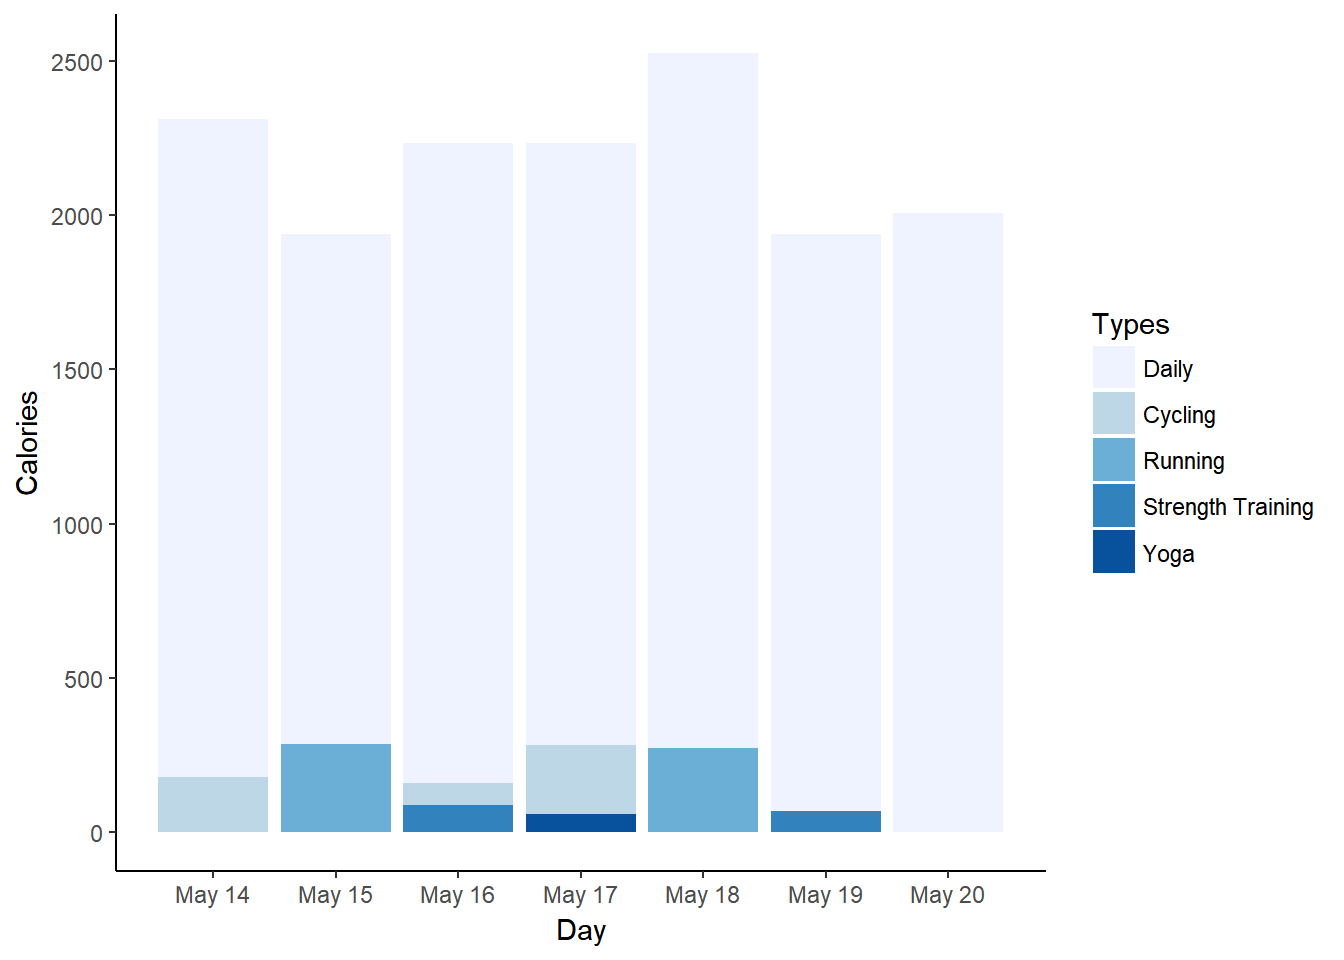
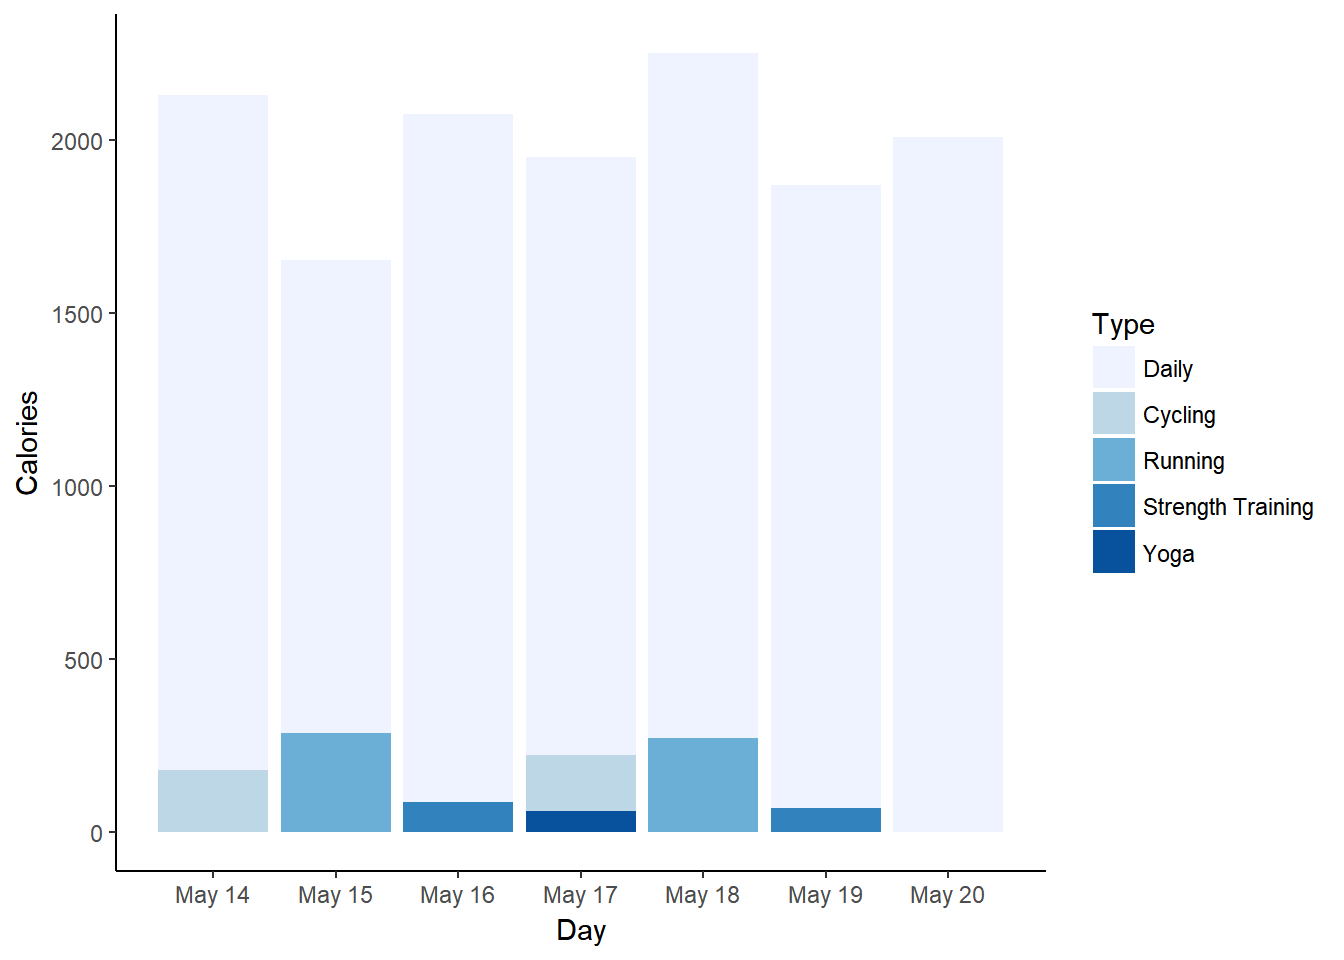
corrected calorie bar charts
using dcast to sum up calories per activity per day
to be able to plot with position="identity"

diff --git a/docs/README.html b/docs/README.html
@@ -191,6 +191,9 @@ $(document).ready(function () {
     <li>
       <a href="WeekOne.html">Week One</a>
     </li>
+    <li>
+      <a href="WeekTwo.html">Week Two</a>
+    </li>
   </ul>
 </li>
       </ul>
